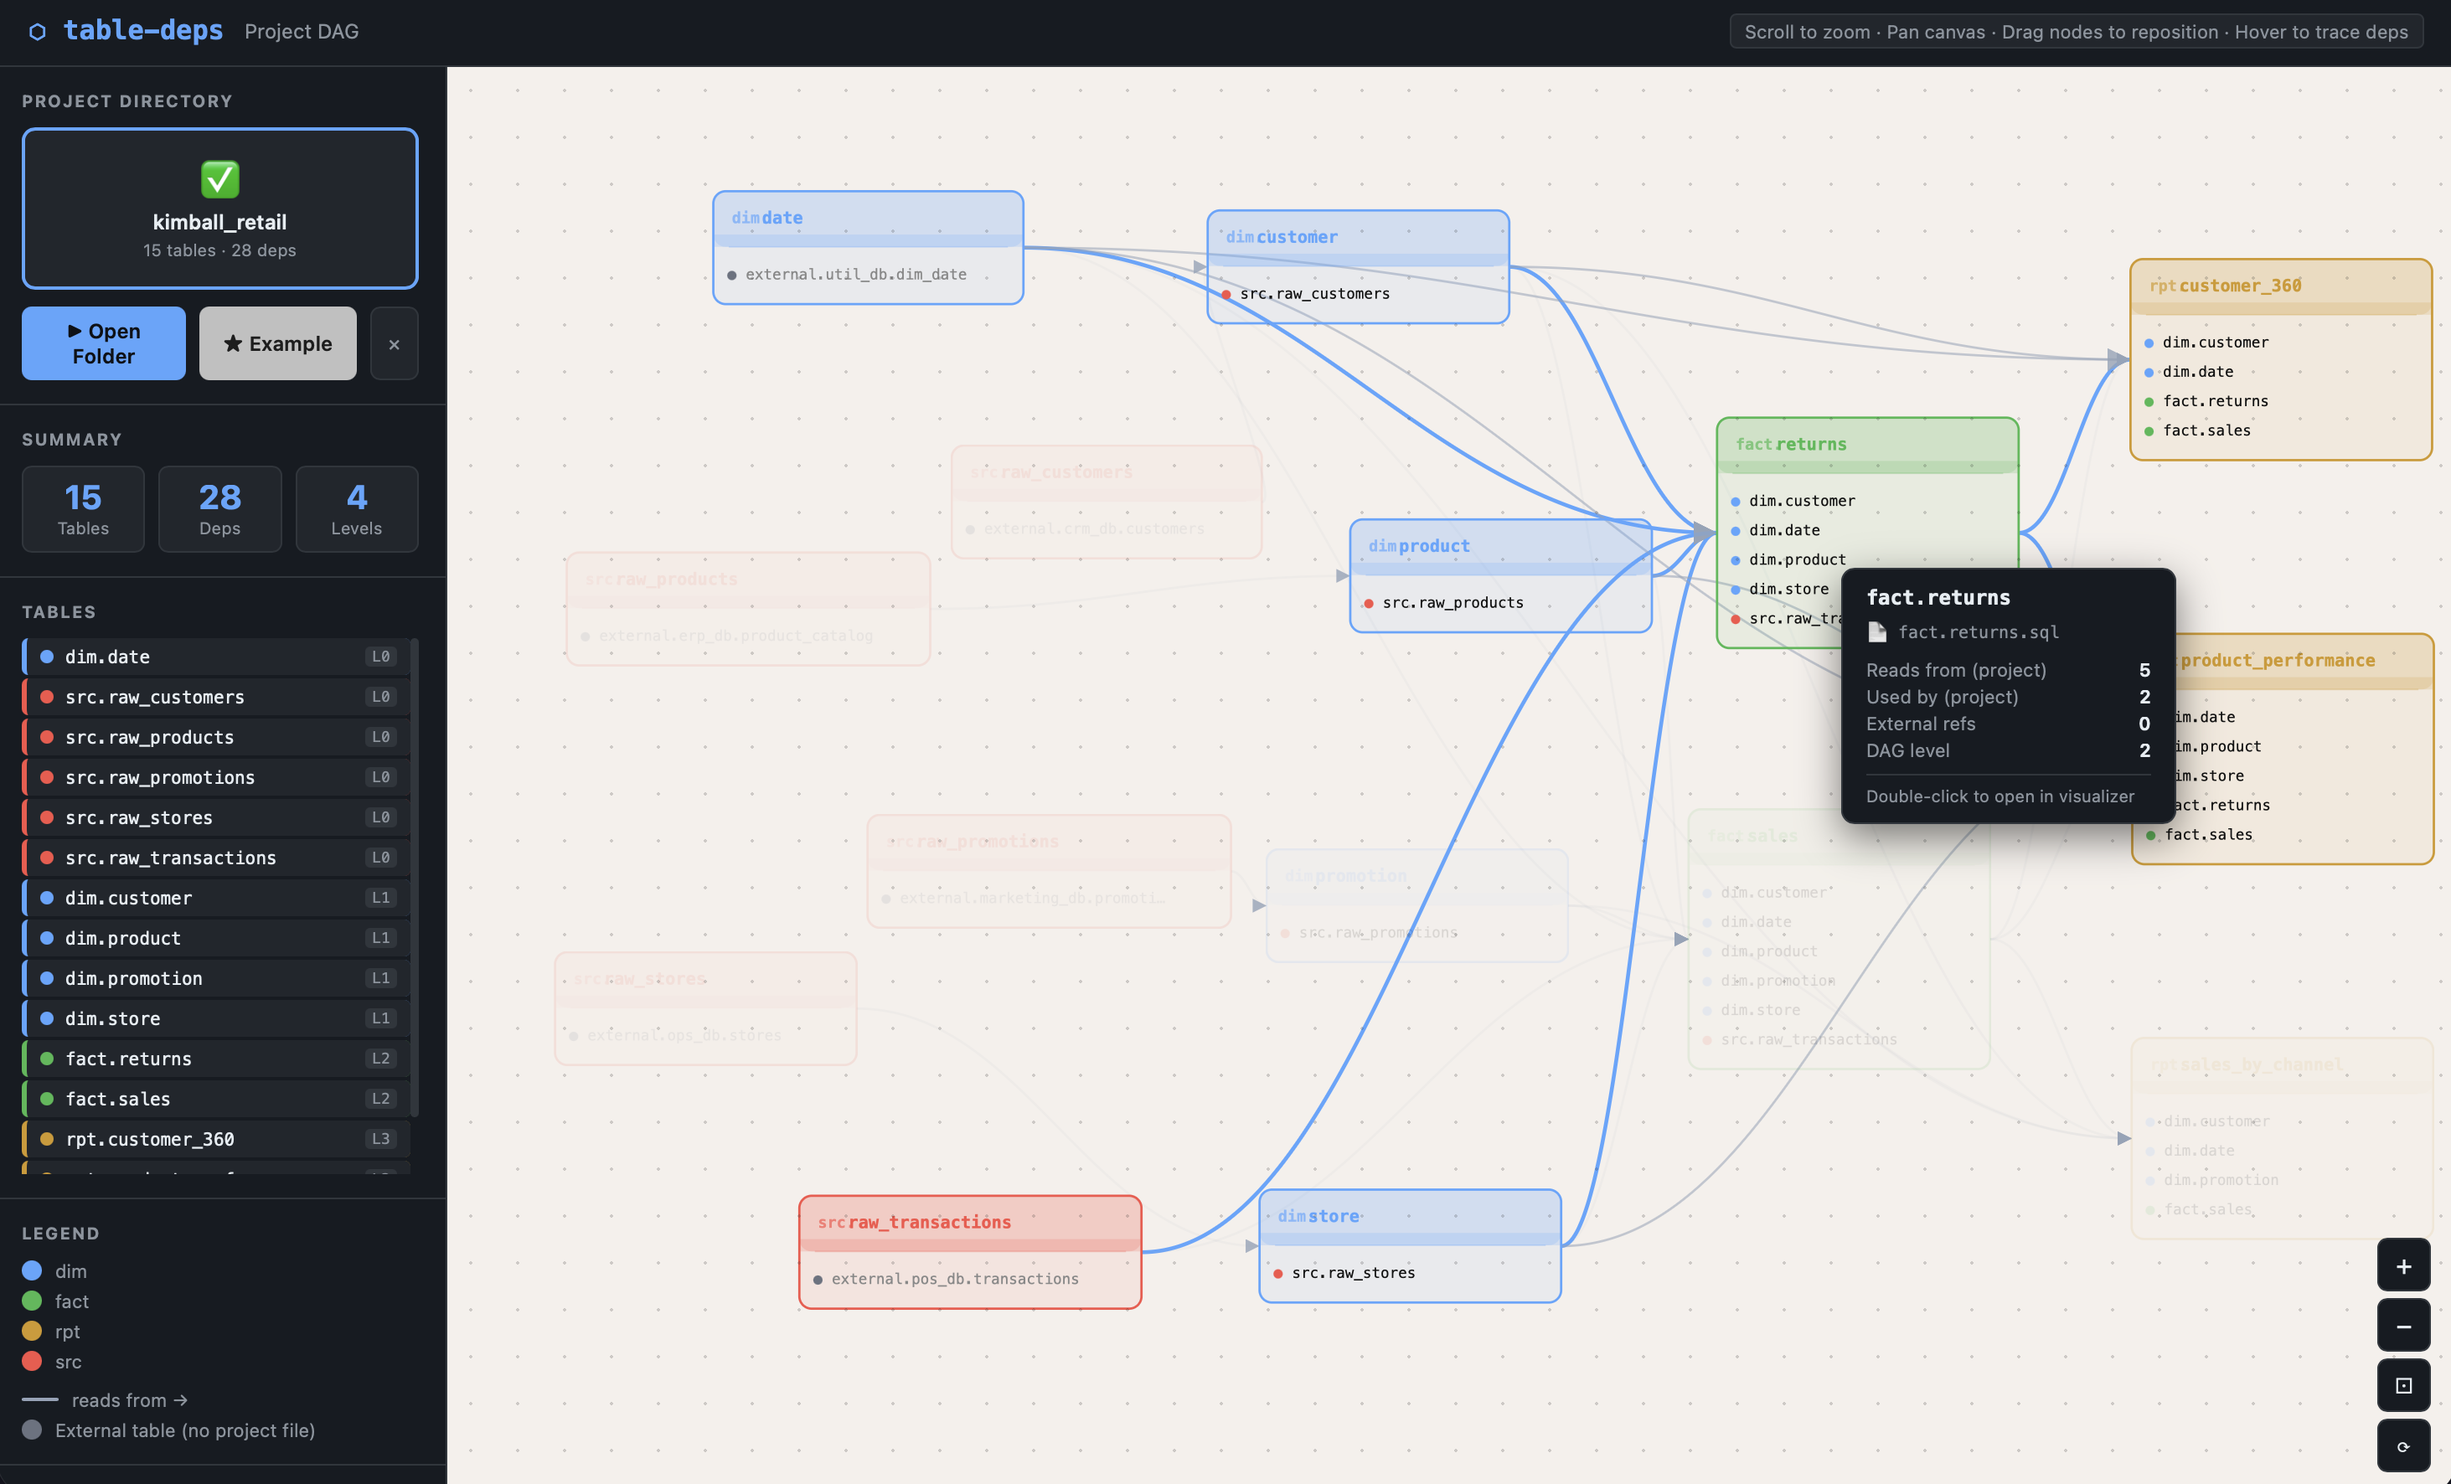
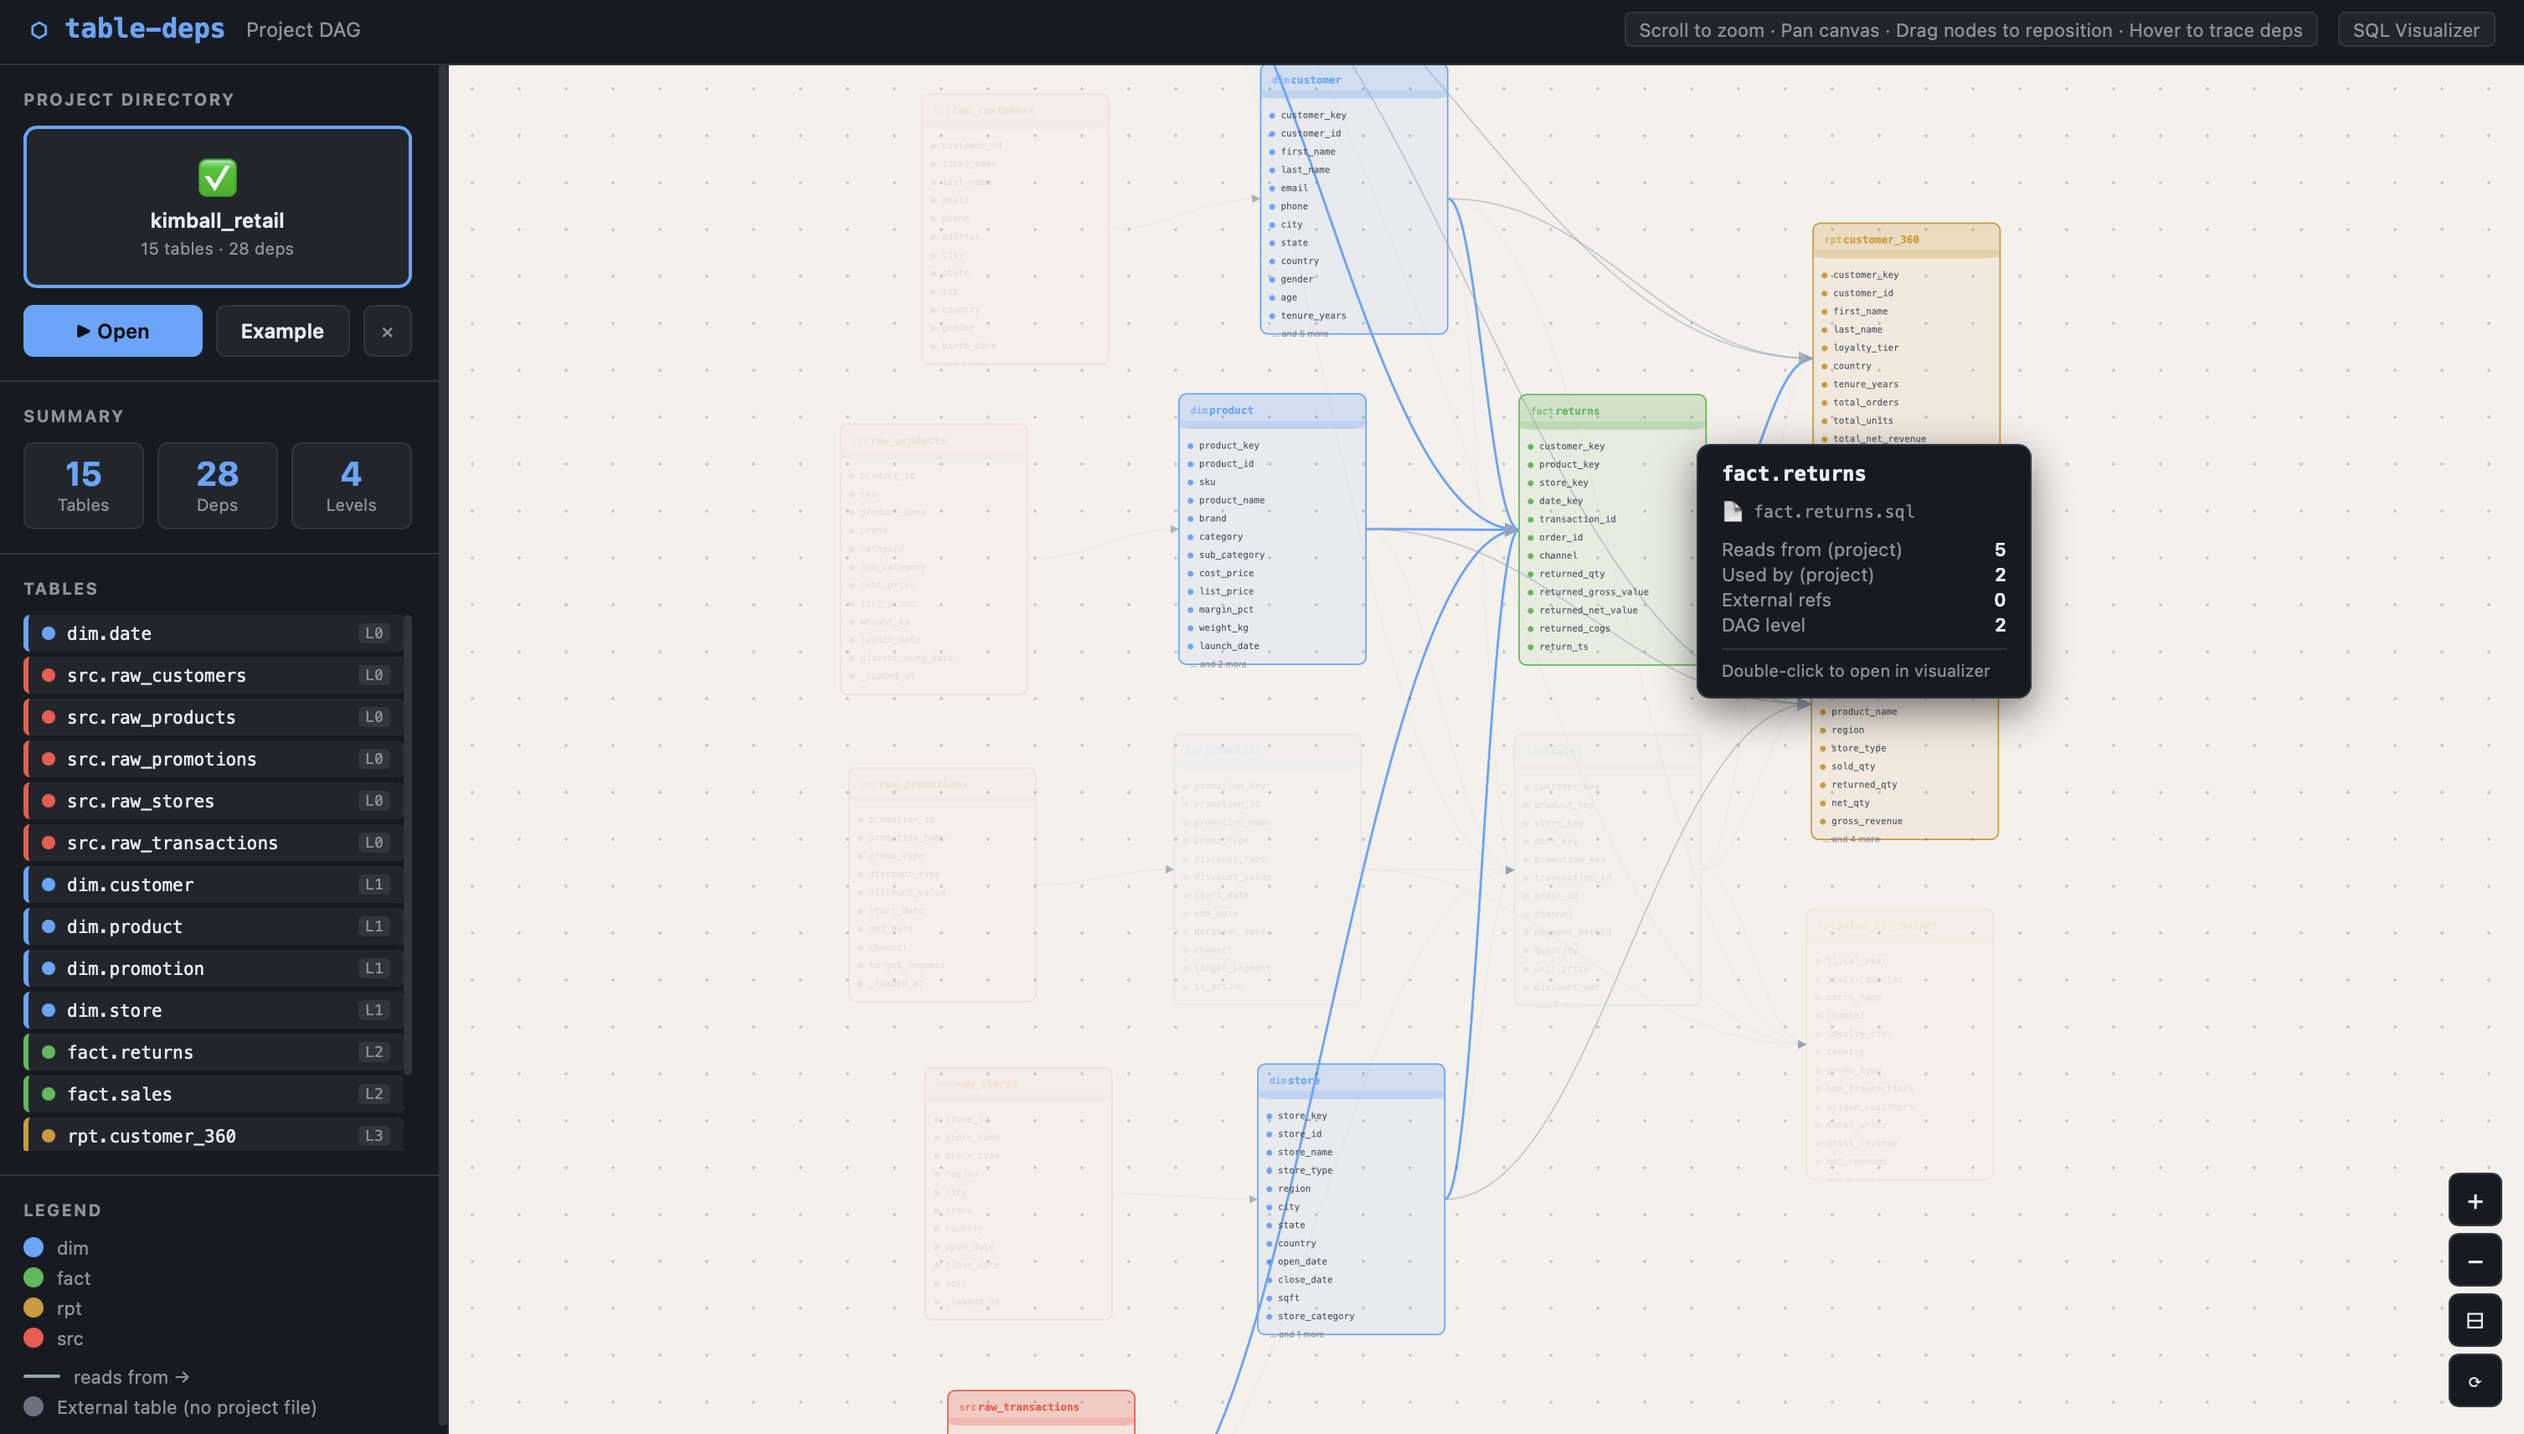
update the readme

diff --git a/README.md b/README.md
@@ -87,6 +87,8 @@ Scan a folder of `.sql` files and visualise the **entire project's cross-file de
 
 ![Project DAG](docs/project_overview_ui.png)
 
+![Column Dependencies](docs/column_deps.png)
+
 ```bash
 uv run table-deps project-ui /path/to/your/project
 ```
@@ -105,6 +107,8 @@ Files must follow the `schema.table_name.sql` naming convention. The schema pref
 - **Example** button — loads the Kimball retail project instantly (no folder needed)
 - **Zoom controls** — zoom in/out, fit-to-view, reset layout; scroll to zoom graph only (sidebar stays fixed); resize sidebar with `[` / `]`
 - **Sidebar** — project stats, table list sorted by DAG level, schema colour legend
+
+![Global Search](docs/global_search.png)
 
 ### Naming Convention
 
